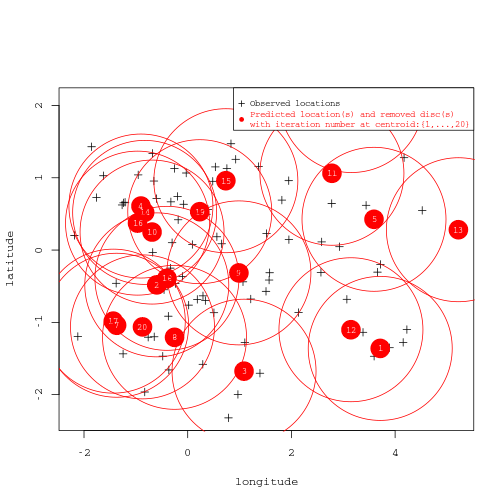
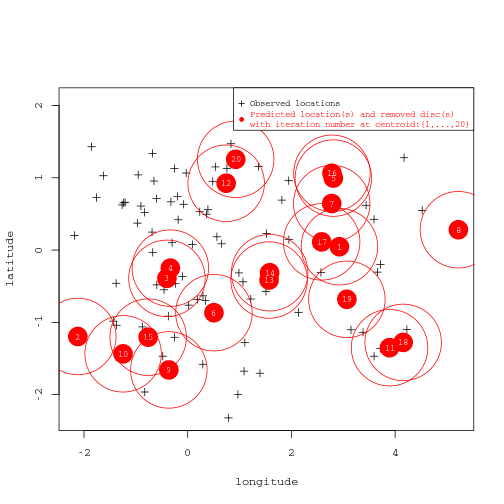
Sort out buffer in example.

diff --git a/README.md b/README.md
@@ -178,7 +178,7 @@ There are some helper functions for general analyses.
 
 ```
 ## y ~ 0 + Intercept + Base + Age + V4
-## <environment: 0x11a22ff8>
+## <environment: 0xb6b15b0>
 ```
 
 ```r
@@ -200,7 +200,7 @@ There are some helper functions for general analyses.
 
 ```
 ## y ~ +Age + Trt + V4 + f(inla.group(Age), model = "rw2")
-## <environment: 0x8d00078>
+## <environment: 0xc1d0688>
 ```
 
 ```r
@@ -237,11 +237,10 @@ out.field <- INLA::inla.spde2.result(out,'spatial.field', spde, do.transf = TRUE
 range.out <- INLA::inla.emarginal(function(x) x, out.field$marginals.range.nominal[[1]])
 
 # parameters for the SLOO process
-ss <- 20 #sample size to process (number of SLOO runs)
-rad <- range.out*0.15 #define the radius of the spatial buffer surrounding the removed point
-dataframe$y <- round(runif(length(dataframe$y), 1, 12)) #create positive discrete response
-modform <- y ~ -1+ y.intercept + x1 + f(spatial.field, model=spde)
-alpha <- 0.05 #rmse and mae confidence intervals (1-alpha)
+ss <- 20 # sample size to process (number of SLOO runs)
+rad <- min(range.out, max(dist(coords)) / 4) # define the radius of the spatial buffer surrounding the removed point. Make sure it isn't bigger than 25% of the study area (Le Rest 2014)
+modform <- y ~ -1+ y.intercept + x1 + x2 + f(spatial.field, model=spde)
+alpha <- 0.05 # rmse and mae confidence intervals (1-alpha)
 
 # run the function
 cv <- inlasloo(dataframe = dataframe, 
